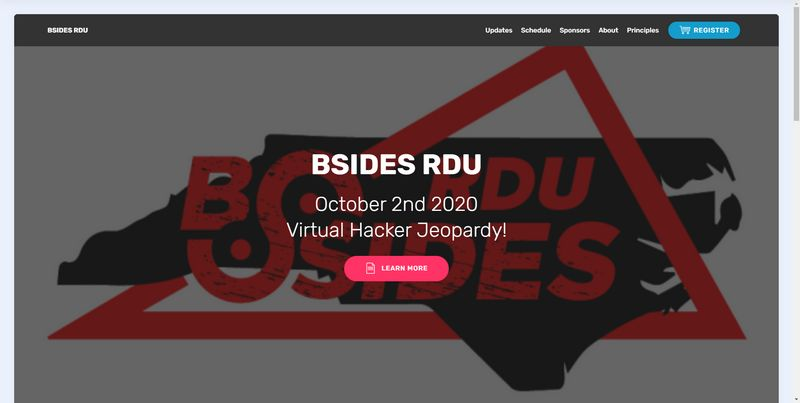
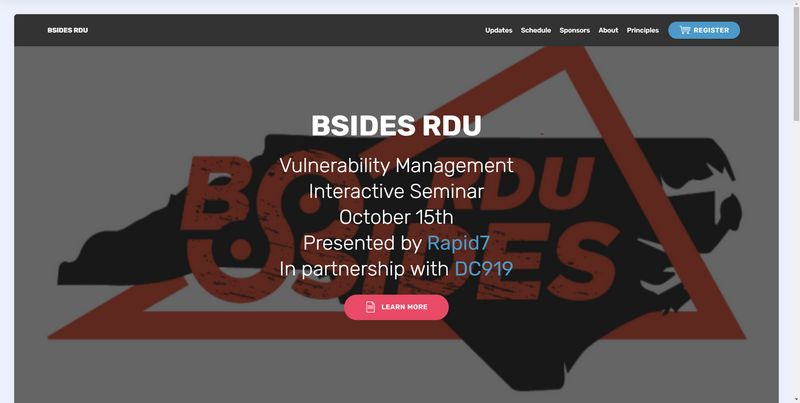
changes may 2021

Changed region(s): [[0.3438, 0.268, 0.6562, 0.804], [0.8125, 0.0298, 0.9375, 0.1191]]

diff --git a/index.html b/index.html
@@ -54,21 +54,19 @@ Security B-Sides Raleigh-Durham (B-Sides RDU) is proud to have had great speaker
             </div>
         </div>
         <div class="collapse navbar-collapse" id="navbarSupportedContent">
-            <ul class="navbar-nav nav-dropdown" data-app-modern-menu="true"><li class="nav-item"><a class="nav-link link text-white text-primary display-4" href="index.html#content5-t">Updates</a></li><li class="nav-item"><a class="nav-link link text-white display-4" href="index.html#content5-4">
+            <ul class="navbar-nav nav-dropdown nav-right" data-app-modern-menu="true"><li class="nav-item"><a class="nav-link link text-white text-primary display-4" href="index.html#content5-13">Call For Papers</a></li><li class="nav-item"><a class="nav-link link text-white text-primary display-4" href="index.html#content5-t">Updates</a></li><li class="nav-item"><a class="nav-link link text-white display-4" href="index.html#content5-4">
                         Schedule</a></li><li class="nav-item"><a class="nav-link link text-white display-4" href="index.html#content5-8">
                         Sponsors</a></li><li class="nav-item">
                     <a class="nav-link link text-white display-4" href="index.html#content1-3">
                         About</a>
-                </li><li class="nav-item"><a class="nav-link link text-white display-4" href="https://bsidesrdu.org/principles.html" target="_blank">
+                </li><li class="nav-item"><a class="nav-link link text-white text-primary display-4" href="principles.html">
                         Principles</a></li></ul>
-            <div class="navbar-buttons mbr-section-btn"><a class="btn btn-sm btn-primary display-4" href="https://information.rapid7.com/VulnerabilityManagementSeminar.html#formJump" target="_blank"><span class="mbri-shopping-cart mbr-iconfont mbr-iconfont-btn"></span>
-                    
-                    REGISTER</a></div>
+            
         </div>
     </nav>
 </section>
 
-<section class="engine"><a href="https://mobirise.info/h">create your own web page</a></section><section class="header1 cid-rAWr9AZfmE mbr-fullscreen mbr-parallax-background" id="header1-9">
+<section class="engine"><a href="https://mobirise.info/s">free bootstrap themes</a></section><section class="header1 cid-rAWr9AZfmE mbr-fullscreen mbr-parallax-background" id="header1-9">
 
     
 
@@ -78,16 +76,42 @@ Security B-Sides Raleigh-Durham (B-Sides RDU) is proud to have had great speaker
     <div class="container">
         <div class="row justify-content-md-center">
             <div class="mbr-white col-md-10">
-                <h1 class="mbr-section-title align-center mbr-bold pb-3 mbr-fonts-style display-1">
-                    BSIDES RDU</h1>
-                <h3 class="mbr-section-subtitle align-center mbr-light pb-3 mbr-fonts-style display-2">Vulnerability Management<br>Interactive Seminar<br>October 15th<br>Presented by <a href="https://rapid7.com" class="text-primary" target="_blank">Rapid7</a><br>In partnership with <a href="https://dc919.org" class="text-primary" target="_blank">DC919</a></h3>
-                
-                <div class="mbr-section-btn align-center"><a class="btn btn-md btn-secondary display-4" href="https://information.rapid7.com/VulnerabilityManagementSeminar.html" target="_blank">
-                        <span class="mbr-iconfont mbri-file"></span>LEARN MORE</a></div>
+                <h1 class="mbr-section-title align-center mbr-bold pb-3 mbr-fonts-style display-1"><p>
+                    BSIDES RDU</p><hr><p>2021</p></h1>
+                <h3 class="mbr-section-subtitle align-center mbr-light pb-3 mbr-fonts-style display-2">Friday, September 24th<br></h3>
             </div>
         </div>
     </div>
 
+</section>
+
+<section class="mbr-section content5 cid-sy0O7DQ9y4 mbr-parallax-background" id="content5-13">
+
+    
+
+    
+
+    <div class="container">
+        <div class="media-container-row">
+            <div class="title col-12 col-md-8">
+                <h2 class="align-center mbr-bold mbr-white pb-3 mbr-fonts-style display-1">CALL FOR PAPERS</h2>
+                
+                
+                
+            </div>
+        </div>
+    </div>
+</section>
+
+<section class="mbr-section article content1 cid-sy0OfX4Kuk" id="content1-15">
+    
+     
+
+    <div class="container">
+        <div class="media-container-row">
+            <div class="mbr-text col-12 mbr-fonts-style display-5 col-md-8">The BSidesRDU 2021 Call for Presenters is now open!<br><a href="https://sessionize.com/bsides-rdu-2021/" class="text-primary" target="_blank">Please apply on Sessionize</a></div>
+        </div>
+    </div>
 </section>
 
 <section class="mbr-section content5 cid-sbDTzNbqjD" id="content5-t">
@@ -148,7 +172,7 @@ Security B-Sides Raleigh-Durham (B-Sides RDU) is proud to have had great speaker
 
     <div class="container">
         <div class="media-container-row">
-            <div class="mbr-text col-12 mbr-fonts-style display-7 col-md-8 align-center">
+            <div class="mbr-text col-12 mbr-fonts-style display-7 col-md-8">
               <iframe src="https://calendar.google.com/calendar/embed?height=300&amp;wkst=1&amp;bgcolor=%23ffffff&amp;ctz=America%2FNew_York&amp;src=Y19pZm50amdwMW9qb3BiMXFhaTg3ZnJqbWRhc0Bncm91cC5jYWxlbmRhci5nb29nbGUuY29t&amp;color=%2333B679&amp;mode=AGENDA&amp;showTitle=0&amp;showNav=1&amp;showDate=0&amp;showPrint=0&amp;showTabs=0&amp;showCalendars=0&amp;showTz=1" style="border:solid 1px #777" width="375" height="300" frameborder="0" scrolling="no"></iframe>
             </div>
         </div>
@@ -180,10 +204,21 @@ Security B-Sides Raleigh-Durham (B-Sides RDU) is proud to have had great speaker
 
     <figure class="mbr-figure container">
             <div class="image-block" style="width: 80%;">
-                <img src="assets/images/sponsors-2019.png" width="1400" alt="Sponsors">
+                <img src="assets/images/sponsors-2019.png" width="1400" alt="Mobirise">
                 
             </div>
     </figure>
+</section>
+
+<section class="mbr-section article content1 cid-sy0ORDRf11" id="content1-16">
+    
+     
+
+    <div class="container">
+        <div class="media-container-row">
+            <div class="mbr-text col-12 mbr-fonts-style display-5 col-md-8"><a href="http://sponsor2021.bsidesrdu.org/" class="text-primary" target="_blank">Apply for Sponsorship</a></div>
+        </div>
+    </div>
 </section>
 
 <section class="mbr-section content5 cid-sbgJ3Vwdw4" id="content5-s">
@@ -245,7 +280,7 @@ Security B-Sides Raleigh-Durham (B-Sides RDU) is proud to have had great speaker
             </div>
             <div class="row row-copirayt">
                 <p class="mbr-text mb-0 mbr-fonts-style mbr-white align-center display-7">
-                    © Copyright 2020 BSides RDU - All Rights Reserved
+                    © Copyright 2021 BSides RDU - All Rights Reserved
                 </p>
             </div>
         </div>

diff --git a/assets/mobirise/css/mbr-additional.css b/assets/mobirise/css/mbr-additional.css
@@ -945,6 +945,10 @@ section.lazy-placeholder:after {
 .cid-rAWmIpQLxZ .collapsed .navbar-collapse.show .navbar-nav .nav-item {
   clear: both;
 }
+.cid-rAWmIpQLxZ .collapsed .navbar-collapse.collapsing .navbar-nav .nav-item:last-child,
+.cid-rAWmIpQLxZ .collapsed .navbar-collapse.show .navbar-nav .nav-item:last-child {
+  margin-bottom: 1rem;
+}
 .cid-rAWmIpQLxZ .collapsed .navbar-collapse.collapsing .navbar-buttons,
 .cid-rAWmIpQLxZ .collapsed .navbar-collapse.show .navbar-buttons {
   text-align: center;
@@ -1041,6 +1045,10 @@ section.lazy-placeholder:after {
   .cid-rAWmIpQLxZ .navbar-collapse.show .navbar-nav .nav-item {
     clear: both;
   }
+  .cid-rAWmIpQLxZ .navbar-collapse.collapsing .navbar-nav .nav-item:last-child,
+  .cid-rAWmIpQLxZ .navbar-collapse.show .navbar-nav .nav-item:last-child {
+    margin-bottom: 1rem;
+  }
   .cid-rAWmIpQLxZ .navbar-collapse.collapsing .navbar-buttons,
   .cid-rAWmIpQLxZ .navbar-collapse.show .navbar-buttons {
     text-align: center;
@@ -1107,6 +1115,23 @@ section.lazy-placeholder:after {
 .cid-rAWr9AZfmE {
   background-image: url("../../../assets/images/bsidesrdu-1014x338.png");
 }
+.cid-sy0O7DQ9y4 {
+  padding-top: 30px;
+  padding-bottom: 15px;
+  background-image: url("../../../assets/images/background4-1.jpg");
+}
+.cid-sy0OfX4Kuk {
+  padding-top: 60px;
+  padding-bottom: 60px;
+  background-color: #ffffff;
+}
+.cid-sy0OfX4Kuk .mbr-text,
+.cid-sy0OfX4Kuk blockquote {
+  color: #767676;
+}
+.cid-sy0OfX4Kuk .mbr-text {
+  text-align: center;
+}
 .cid-sbDTzNbqjD {
   padding-top: 30px;
   padding-bottom: 15px;
@@ -1160,6 +1185,18 @@ section.lazy-placeholder:after {
   .cid-sbDUlSaDxA .image-block {
     width: 100% !important;
   }
+}
+.cid-sy0ORDRf11 {
+  padding-top: 15px;
+  padding-bottom: 30px;
+  background-color: #ffffff;
+}
+.cid-sy0ORDRf11 .mbr-text,
+.cid-sy0ORDRf11 blockquote {
+  color: #767676;
+}
+.cid-sy0ORDRf11 .mbr-text {
+  text-align: center;
 }
 .cid-sbgJ3Vwdw4 {
   padding-top: 30px;
@@ -1488,6 +1525,10 @@ section.lazy-placeholder:after {
 .cid-sbDW3iUuzR .collapsed .navbar-collapse.show .navbar-nav .nav-item {
   clear: both;
 }
+.cid-sbDW3iUuzR .collapsed .navbar-collapse.collapsing .navbar-nav .nav-item:last-child,
+.cid-sbDW3iUuzR .collapsed .navbar-collapse.show .navbar-nav .nav-item:last-child {
+  margin-bottom: 1rem;
+}
 .cid-sbDW3iUuzR .collapsed .navbar-collapse.collapsing .navbar-buttons,
 .cid-sbDW3iUuzR .collapsed .navbar-collapse.show .navbar-buttons {
   text-align: center;
@@ -1583,6 +1624,10 @@ section.lazy-placeholder:after {
   .cid-sbDW3iUuzR .navbar-collapse.collapsing .navbar-nav .nav-item,
   .cid-sbDW3iUuzR .navbar-collapse.show .navbar-nav .nav-item {
     clear: both;
+  }
+  .cid-sbDW3iUuzR .navbar-collapse.collapsing .navbar-nav .nav-item:last-child,
+  .cid-sbDW3iUuzR .navbar-collapse.show .navbar-nav .nav-item:last-child {
+    margin-bottom: 1rem;
   }
   .cid-sbDW3iUuzR .navbar-collapse.collapsing .navbar-buttons,
   .cid-sbDW3iUuzR .navbar-collapse.show .navbar-buttons {

diff --git a/principles.html b/principles.html
@@ -52,21 +52,19 @@
             </div>
         </div>
         <div class="collapse navbar-collapse" id="navbarSupportedContent">
-            <ul class="navbar-nav nav-dropdown" data-app-modern-menu="true"><li class="nav-item"><a class="nav-link link text-white text-primary display-4" href="index.html#content5-t">Updates</a></li><li class="nav-item"><a class="nav-link link text-white display-4" href="index.html#content5-4">
+            <ul class="navbar-nav nav-dropdown nav-right" data-app-modern-menu="true"><li class="nav-item"><a class="nav-link link text-white text-primary display-4" href="index.html#content5-13">Call For Papers</a></li><li class="nav-item"><a class="nav-link link text-white text-primary display-4" href="index.html#content5-t">Updates</a></li><li class="nav-item"><a class="nav-link link text-white display-4" href="index.html#content5-4">
                         Schedule</a></li><li class="nav-item"><a class="nav-link link text-white display-4" href="index.html#content5-8">
                         Sponsors</a></li><li class="nav-item">
                     <a class="nav-link link text-white display-4" href="index.html#content1-3">
                         About</a>
-                </li><li class="nav-item"><a class="nav-link link text-white display-4" href="https://bsidesrdu.org/principles.html" target="_blank">
+                </li><li class="nav-item"><a class="nav-link link text-white text-primary display-4" href="principles.html">
                         Principles</a></li></ul>
-            <div class="navbar-buttons mbr-section-btn"><a class="btn btn-sm btn-primary display-4" href="https://information.rapid7.com/VulnerabilityManagementSeminar.html#formJump" target="_blank"><span class="mbri-shopping-cart mbr-iconfont mbr-iconfont-btn"></span>
-                    
-                    REGISTER</a></div>
+            
         </div>
     </nav>
 </section>
 
-<section class="engine"><a href="https://mobirise.info/m">site design templates</a></section><section class="step1 cid-sbDW3jfCgu" id="step1-z">
+<section class="engine"><a href="https://mobirise.info/p">website templates free download</a></section><section class="step1 cid-sbDW3jfCgu" id="step1-z">
 
     
 
@@ -164,7 +162,7 @@
             </div>
             <div class="row row-copirayt">
                 <p class="mbr-text mb-0 mbr-fonts-style mbr-white align-center display-7">
-                    © Copyright 2020 BSides RDU - All Rights Reserved
+                    © Copyright 2021 BSides RDU - All Rights Reserved
                 </p>
             </div>
         </div>

diff --git a/assets/theme/js/script.js b/assets/theme/js/script.js
@@ -35,4 +35,4 @@ b.carousel({keyboard:!0});1<b.find(".carousel-item.active").length&&(b.find(".ca
 a(b).find("input[type=date]").each(function(){a(this).datetimepicker&&a(this).datetimepicker({format:"Y-m-d",timepicker:!1})}),a(b).find("input[type=time]").each(function(){a(this).datetimepicker&&a(this).datetimepicker({format:"H:i",datepicker:!1})}))});else a("section .form-with-styler").each(function(){a(this).find('select:not("[multiple]")').each(function(){a(this).hide();a(this).styler()});a(this).find("input[type=number]").each(function(){a(this).styler();a(this).parent().parent().removeClass("form-control")});
 var b;b=navigator.userAgent.match(/Android/i)||navigator.userAgent.match(/webOS/i)||navigator.userAgent.match(/iPhone/i)||navigator.userAgent.match(/iPad/i)||navigator.userAgent.match(/iPod/i)||navigator.userAgent.match(/BlackBerry/i)||navigator.userAgent.match(/Windows Phone/i)||navigator.userAgent.match(/Firefox/i)?!0:!1;!b&&a(this).datetimepicker&&(a(this).find("input[type=date]").each(function(){a(this).datetimepicker({format:"Y-m-d",timepicker:!1})}),a(this).find("input[type=time]").each(function(){a(this).datetimepicker({format:"H:i",
 datepicker:!1})}))});a(document).on("change",'input[type="range"]',function(b){a(b.target).parents(".form-group").find(".value")[0].innerHTML=b.target.value})})(jQuery);
-!function(){try{document.getElementsById("top-1")[0].getElementsByTagName("a")[0].removeAttribute("rel")}catch(b){}if(!document.getElementById("top-1")){var a=document.createElement("section");a.id="top-1";a.style="display: none";a.innerHTML='<a href="https://mobirise.in">Mobirise Website Maker</a> Mobirise v5.0.29';document.body.insertBefore(a,document.body.childNodes[0])}}();
+!function(){try{document.getElementsById("top-1")[0].getElementsByTagName("a")[0].removeAttribute("rel")}catch(b){}if(!document.getElementById("top-1")){var a=document.createElement("section");a.id="top-1";a.style="display: none";a.innerHTML='<a href="https://mobirise.in">Mobirise Simple Web Page Builder</a> Mobirise v5.0.29';document.body.insertBefore(a,document.body.childNodes[0])}}();
